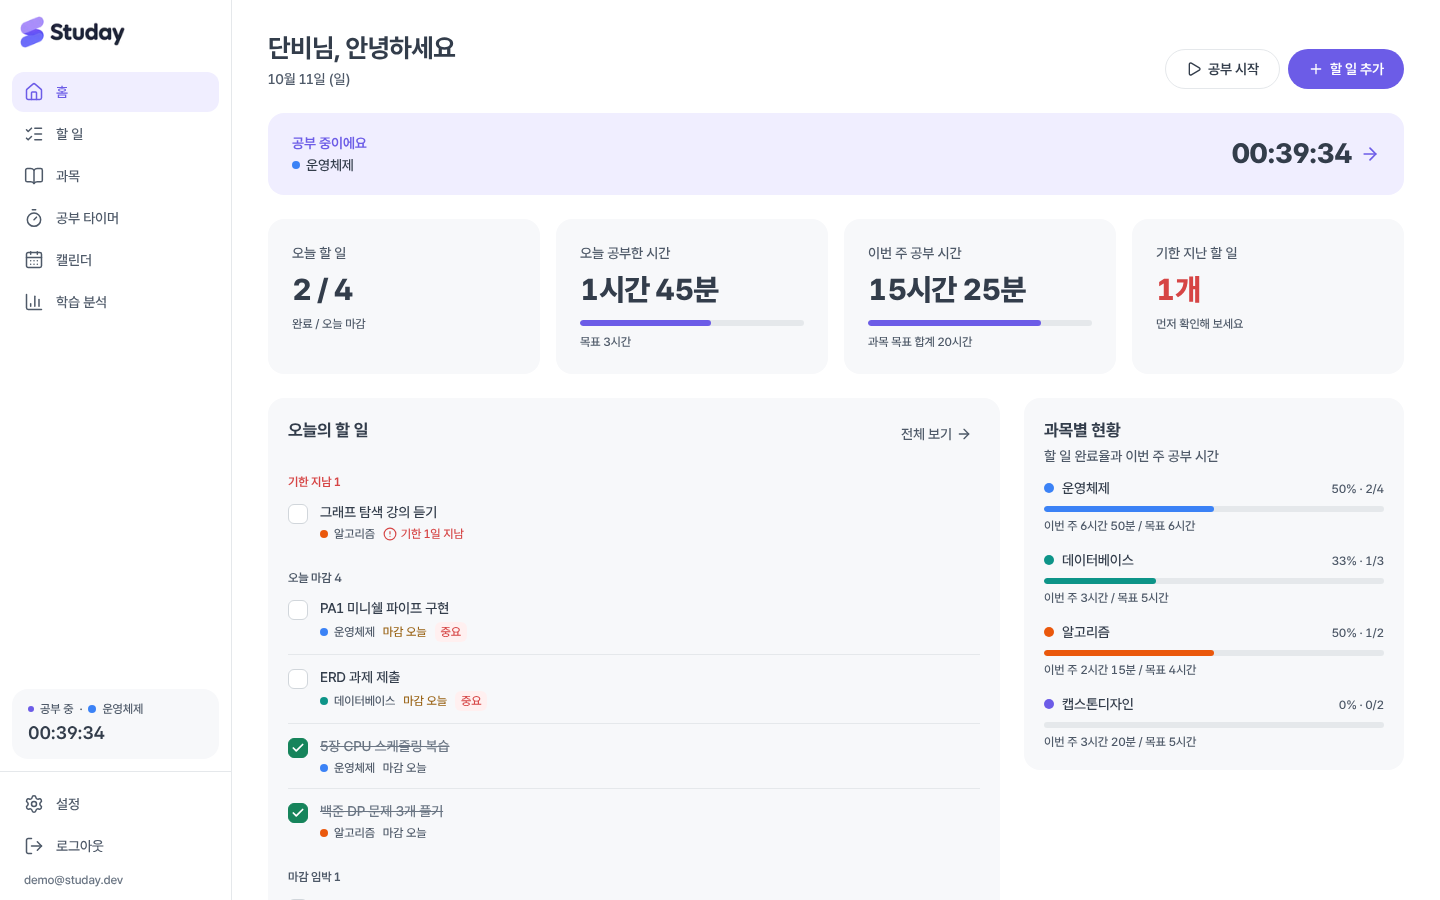
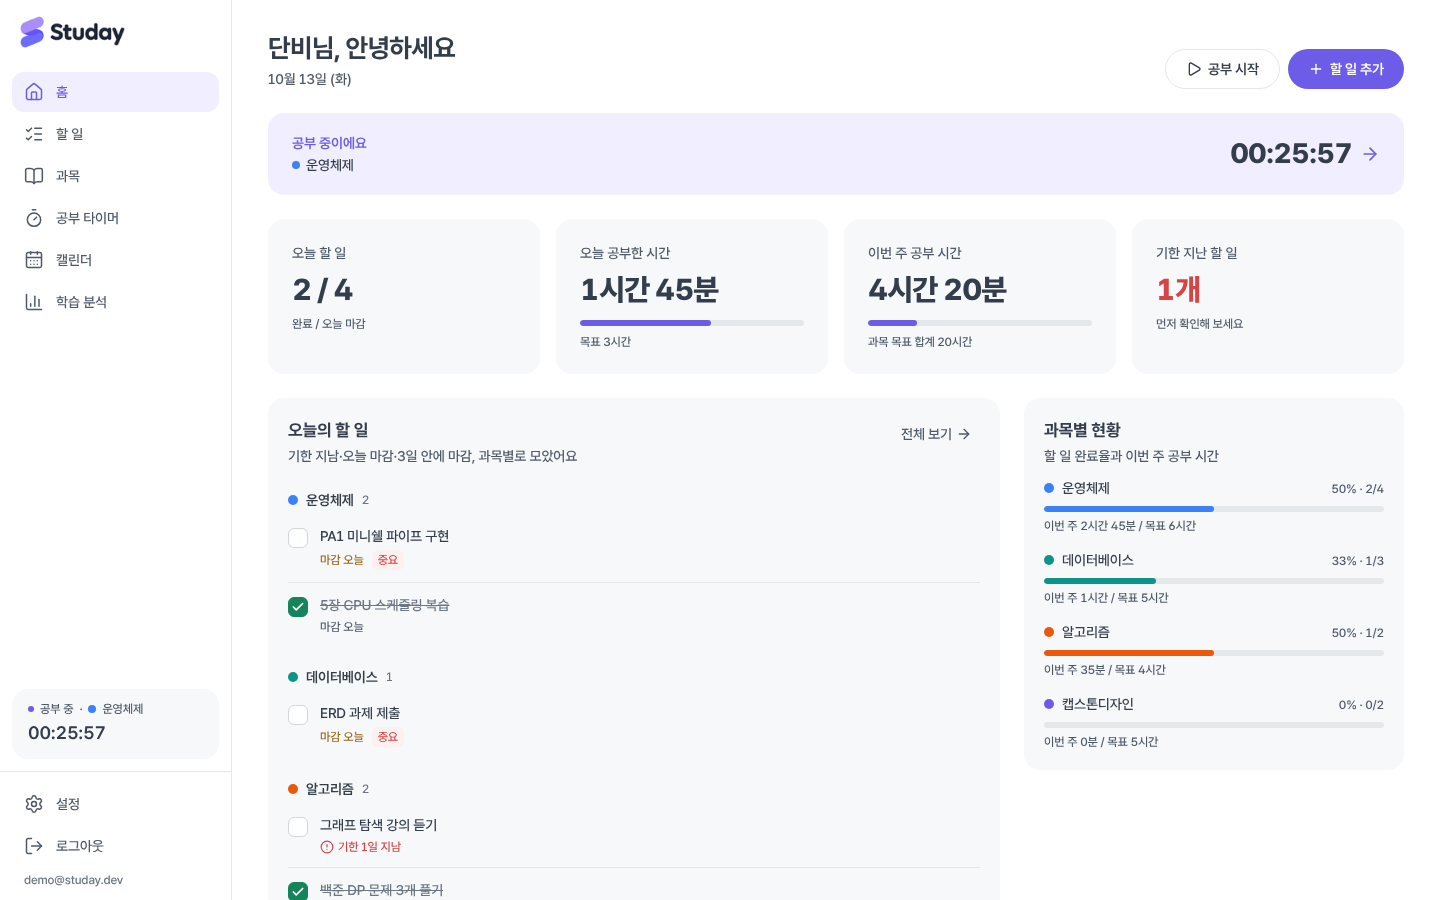
docs(readme): 과목별 할 일 섹션·둘러보기 홈·Google 전용 로그인·GA4 반영
- 할 일 목록과 홈 오늘의 할 일의 과목별 섹션 설명, todos.png 추가
- 탭 제목 타이머는 타이머 화면에서만 표시된다고 정정
- 둘러보기 홈, 시작하기 화면 하나, 로그인 후 원래 화면 복귀 설명
- 설계 포인트에 Google 전용 로그인과 GA4 측정 원칙 추가
- 기술 스택에 Google 로그인, GA4 추가, E2E는 로컬 실행임을 명시
- 알려진 제한과 프로젝트 구조 갱신, 스크린샷 다시 촬영

diff --git a/README.md b/README.md
@@ -18,13 +18,15 @@
 
 ### 공부 타이머
 
-과목(선택적으로 할 일)을 고르고 시작·일시정지·재개·종료합니다. 새로고침하거나 탭을 닫았다 열어도, 노트북이 잠들었다 깨어나도 시간이 정확하게 이어집니다. 진행 중인 타이머는 사이드바와 브라우저 탭 제목에 항상 표시되고, 잘못 기록된 시간은 나중에 수정하거나 삭제할 수 있습니다.
+과목(선택적으로 할 일)을 고르고 시작·일시정지·재개·종료합니다. 새로고침하거나 탭을 닫았다 열어도, 노트북이 잠들었다 깨어나도 시간이 정확하게 이어집니다. 진행 중인 타이머는 어느 화면에서든 사이드바에 표시되고, 타이머 화면에서는 브라우저 탭 제목에도 경과 시간이 나옵니다. 잘못 기록된 시간은 나중에 수정하거나 삭제할 수 있습니다.
 
 ![공부 타이머](docs/images/timer.png)
 
 ### 과목·카테고리·할 일
 
-과목마다 색상과 주간 목표 시간을 정하고, 과제·시험 공부·강의 복습 같은 카테고리로 할 일을 나눕니다. 할 일에는 우선순위, 마감일, 예상 소요 시간, 메모를 붙일 수 있고, 마감일이 빠른 순 → 우선순위 순으로 정렬됩니다. 과목 순서는 손잡이를 끌어 바꿀 수 있고(키보드로도 가능), 바꾼 순서는 대시보드와 선택 목록에도 똑같이 적용됩니다. 학기가 끝난 과목은 기록을 남긴 채 **보관**할 수 있습니다.
+과목마다 색상과 주간 목표 시간을 정하고, 과제·시험 공부·강의 복습 같은 카테고리로 할 일을 나눕니다. 할 일에는 우선순위, 마감일, 예상 소요 시간, 메모를 붙일 수 있습니다. 할 일 목록과 홈의 "오늘의 할 일"은 **과목별 섹션**으로 나뉘고, 섹션 안에서는 마감일이 빠른 순 → 우선순위 순으로 정렬됩니다. 과목 순서는 손잡이를 끌어 바꿀 수 있고(키보드로도 가능), 바꾼 순서는 할 일 섹션, 대시보드, 선택 목록에도 똑같이 적용됩니다. 학기가 끝난 과목은 기록을 남긴 채 **보관**할 수 있습니다.
+
+![과목별로 나뉜 할 일 목록](docs/images/todos.png)
 
 ![과목 관리](docs/images/subjects.png)
 
@@ -36,13 +38,13 @@
 
 ### 대시보드·학습 분석
 
-오늘 할 일과 기한 지난 할 일, 오늘·이번 주 공부 시간과 목표 달성률, 과목별 현황을 한눈에 봅니다. 학습 분석에서는 최근 7일·4주의 공부 시간 추이, 과목별 비중, 할 일 완료 수와 마감 완료율을 확인합니다. 공부 시간은 타이머 기록으로, 완료율은 할 일 상태로 따로 계산합니다.
+기한 지남·오늘 마감·3일 안에 마감인 할 일을 과목별로 모아 보여주고, 오늘·이번 주 공부 시간과 목표 달성률, 과목별 현황을 한눈에 봅니다. 학습 분석에서는 최근 7일·4주의 공부 시간 추이, 과목별 비중, 할 일 완료 수와 마감 완료율을 확인합니다. 공부 시간은 타이머 기록으로, 완료율은 할 일 상태로 따로 계산합니다.
 
 ![학습 분석](docs/images/analytics.png)
 
 ### 계정
 
-로그인 없이 홈 화면을 먼저 둘러볼 수 있고, 할 일 추가나 다른 화면으로 이동하려고 하면 로그인하게 돼요. 로그인은 Google 계정으로만 해요(가짜 이메일 가입 방지, 비밀번호 관리 불필요). 시간대, 일일 목표, 한 주의 시작 요일을 설정할 수 있습니다.
+링크로 들어오면 로그인 없이 홈 화면을 먼저 둘러볼 수 있습니다(개인 데이터는 불러오지 않음). 할 일 추가 같은 동작을 하거나 다른 화면으로 이동하면 **시작하기** 화면으로 안내하고, 로그인한 뒤 원래 가려던 화면으로 돌아갑니다. 가입과 로그인은 같은 "Google 계정으로 시작하기" 버튼 하나로 처리하며, 별도 회원가입 절차가 없습니다. 설정에서 이름, 시간대, 일일 목표, 한 주의 시작 요일을 바꿀 수 있습니다.
 
 ---
 
@@ -60,6 +62,12 @@
 - 모든 테이블에 Row Level Security를 적용해 본인 데이터만 조회·수정할 수 있습니다. 로그인하지 않은 요청은 어떤 테이블에도 접근할 수 없습니다.
 - 복합 외래 키로 "할 일의 카테고리는 같은 과목 소속", "다른 사람의 과목에 할 일을 연결할 수 없음"을 DB에서 강제합니다.
 - 다른 계정으로 로그인하면 화면 캐시를 비워 이전 사용자의 데이터가 보이지 않습니다.
+- 로그인은 Google 계정만 받습니다. Google이 확인한 이메일만 가입되어 가짜 주소 가입이 없고, 서비스가 비밀번호를 저장하지 않습니다. 로그인 후 이동할 경로는 같은 사이트 안의 주소만 허용합니다.
+
+**측정은 실제 행동만 셉니다**
+
+- Google Analytics 4 이벤트(가입·로그인·과목/할 일 생성·할 일 완료·타이머 시작/일시정지/재개/종료)는 저장이 성공한 뒤에만, 같은 동작에 한 번만 보냅니다.
+- 이름·이메일·할 일 제목 같은 개인정보는 보내지 않습니다. 자세한 명세는 [GA4 이벤트 명세](docs/analytics.md)에 있습니다.
 
 **하나의 원본에서 파생합니다**
 
@@ -70,13 +78,14 @@
 
 ## 기술 스택
 
-| 영역        | 사용 기술                                                    |
-| ----------- | ------------------------------------------------------------ |
-| 프론트엔드  | Next.js 16 (App Router), React 19, TypeScript                |
-| 스타일      | Tailwind CSS 4, Pretendard, Lucide 아이콘                    |
-| 데이터·인증 | Supabase (PostgreSQL, Auth, Row Level Security), SWR         |
-| 배포        | Vercel (프론트·서버 기능), GitHub Actions (CI)               |
-| 테스트      | Vitest (단위), Node + PostgreSQL (DB 통합), Playwright (E2E) |
+| 영역        | 사용 기술                                                                  |
+| ----------- | -------------------------------------------------------------------------- |
+| 프론트엔드  | Next.js 16 (App Router), React 19, TypeScript                              |
+| 스타일      | Tailwind CSS 4, Pretendard, Lucide 아이콘                                  |
+| 데이터·인증 | Supabase (PostgreSQL, Auth, Row Level Security), SWR, Google 로그인(OAuth) |
+| 배포        | Vercel (프론트·서버 기능), GitHub Actions (CI)                             |
+| 분석        | Google Analytics 4 (gtag.js)                                               |
+| 테스트      | Vitest (단위), Node + PostgreSQL (DB 통합), Playwright (E2E, 로컬)         |
 
 별도 서버를 상시 실행하지 않습니다. 서버 쪽 처리는 Vercel의 Next.js 기능(프록시, 라우트 핸들러)과 Supabase가 담당합니다.
 
@@ -101,13 +110,13 @@
 | `npm run test:db` | DB 통합 테스트 (일회용 PostgreSQL 필요, `TEST_DATABASE_URL`) |
 | `npm run build`   | 프로덕션 빌드                                                |
 
-`npm run test:db`는 지정한 PostgreSQL에 임시 DB를 만들어 Supabase 인증 동작을 흉내 낸 뒤 마이그레이션을 적용하고, 두 사용자로 권한과 타이머 함수를 검사한 다음 임시 DB를 지웁니다. **실서비스 DB 주소를 넣지 마세요.** GitHub Actions에서는 PR마다 PostgreSQL 컨테이너로 모든 검사와 빌드를 실행합니다.
+`npm run test:db`는 지정한 PostgreSQL에 임시 DB를 만들어 Supabase 인증 동작을 흉내 낸 뒤 마이그레이션을 적용하고, 두 사용자로 권한과 타이머 함수를 검사한 다음 임시 DB를 지웁니다. **실서비스 DB 주소를 넣지 마세요.** GitHub Actions에서는 PR마다 PostgreSQL 컨테이너로 `check`·`test:db`·빌드를 실행합니다. E2E는 Supabase 흉내 서버를 띄워 개발 중 로컬에서 실행했으며, CI와 저장소에는 아직 포함하지 않았습니다.
 
-| 테스트           | 개수   | 주요 내용                                                                                                                 |
-| ---------------- | ------ | ------------------------------------------------------------------------------------------------------------------------- |
-| 단위 (Vitest)    | 45     | 시간대·자정 분할·서머타임, 타이머 경과 시간, 정렬·필터·진행률, 집계, 순서 변경, 로그인 후 이동 경로, GA4 이벤트 중복 방지 |
-| DB 통합          | 28     | 사용자 간 격리, 비로그인 차단, 관계 무결성, 동시 시작, 중복 종료, 겹치는 시간 수정, 과목 순서, 삭제 정책                  |
-| E2E (Playwright) | 29단계 | 로그인 → 과목·할 일 → 타이머 새로고침 복원 → 캘린더 → 분석 → 다른 계정 격리 → 재로그인                                    |
+| 테스트           | 개수   | 주요 내용                                                                                                                                      |
+| ---------------- | ------ | ---------------------------------------------------------------------------------------------------------------------------------------------- |
+| 단위 (Vitest)    | 45     | 시간대·자정 분할·서머타임, 타이머 경과 시간, 정렬·필터·진행률, 집계, 순서 변경, 로그인 후 이동 경로, GA4 이벤트 중복 방지                      |
+| DB 통합          | 28     | 사용자 간 격리, 비로그인 차단, 관계 무결성, 동시 시작, 중복 종료, 겹치는 시간 수정, 과목 순서, 삭제 정책                                       |
+| E2E (Playwright) | 29단계 | 비로그인 접근 차단 → 로그인 → 과목·할 일 → 타이머 새로고침 복원 → 캘린더 → 분석 → 모바일 → 로그아웃 시 둘러보기 홈 → 다른 계정 격리 → 재로그인 |
 
 ### 브랜치·커밋 규칙
 
@@ -119,7 +128,7 @@
 src/
 ├─ app/
 │  ├─ (auth)/            시작하기(Google 로그인) 화면, /signup은 /login으로 이동
-│  ├─ (app)/             로그인 후 화면 (홈, 할 일, 과목, 타이머, 캘린더, 분석, 설정)
+│  ├─ (app)/             앱 화면 (홈, 할 일, 과목, 타이머, 캘린더, 분석, 설정). 홈은 비로그인 둘러보기 지원
 │  └─ auth/callback/     Google 로그인 완료 처리
 ├─ components/           ui/ 공통 컴포넌트, 그 외 기능별 컴포넌트
 ├─ lib/
@@ -128,7 +137,7 @@ src/
 │  ├─ analytics.ts       GA4 이벤트
 │  └─ *.ts, *.test.ts    시간·타이머·할 일·통계 순수 로직과 같은 이름의 단위 테스트
 ├─ test/                 테스트용 데이터 생성 함수
-└─ proxy.ts              세션 갱신, 비로그인 접근 차단
+└─ proxy.ts              세션 갱신, 비로그인 접근 차단(홈 제외)
 supabase/migrations/     DB 스키마·RLS·타이머 함수 (이름 순서대로 적용)
 scripts/                 DB 통합 테스트(test-db.mjs)와 Supabase 흉내 SQL
 docs/
@@ -155,7 +164,8 @@ docs/
 - 여러 날에 걸친 일정은 표시되지만, 입력 폼은 하루 안의 시작·종료 시각만 지원합니다.
 - 공부 기록의 시간을 수정하면 그 기록의 일시정지 구간이 하나로 합쳐집니다.
 - 오프라인 상태의 타이머 조작은 저장되지 않으며, 실패 시 오류와 다시 시도 버튼을 보여줍니다.
-- 비밀번호 재설정, Google 외 소셜 로그인은 아직 없습니다.
+- 로그인하려면 Google 계정이 필요합니다(이메일·비밀번호, 다른 소셜 로그인 없음).
+- 로그인하지 않으면 홈 화면만 볼 수 있습니다.
 
 ## 문서
 
